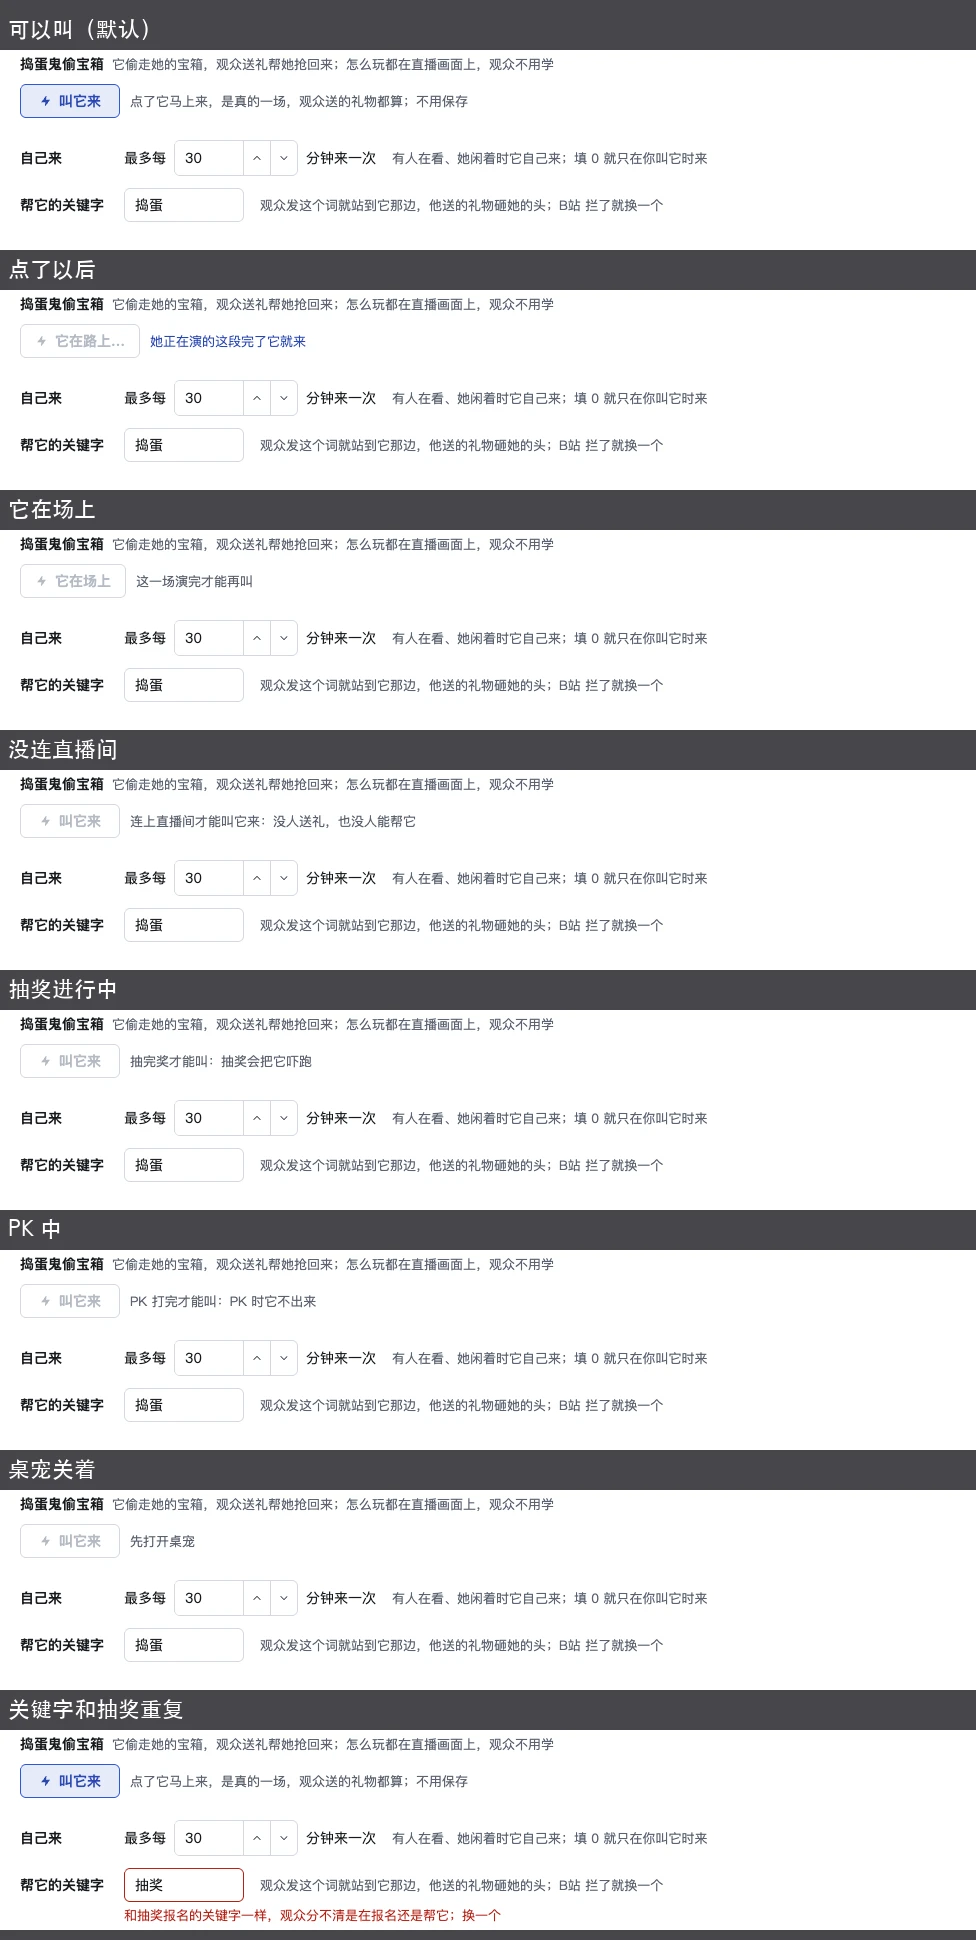
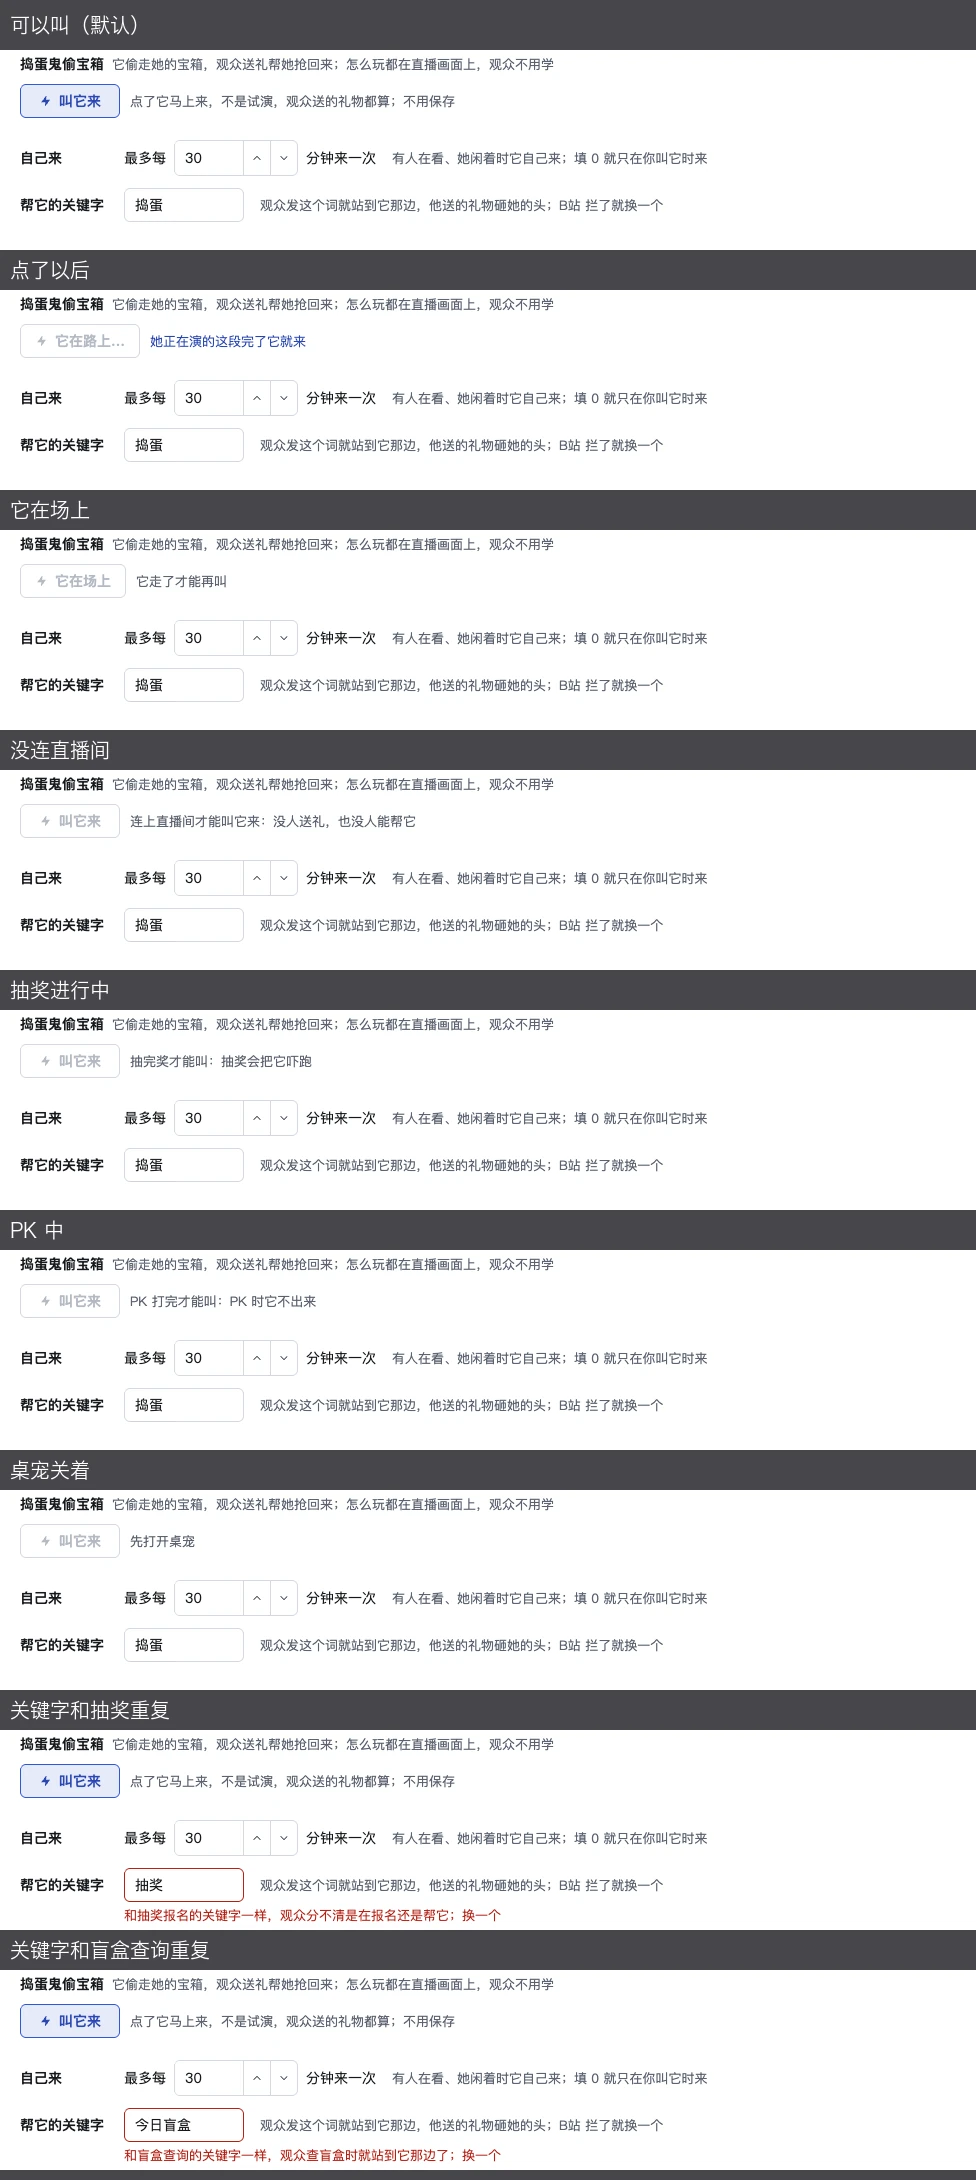
docs: the chest game's terms in the glossary, and what was settled before building it: the keyword clashes with the blind box queries too, a visit is no "一场", the two undrawn poses are dropped (#372)

diff --git a/docs/design/desktop-pet/boards/DP1-DesktopPetSettings.dc.html b/docs/design/desktop-pet/boards/DP1-DesktopPetSettings.dc.html
@@ -336,7 +336,7 @@ a{color:#3358D4}a:hover{color:#2A47B0}
   </div>
 </div>
 </x-dc>
-<script type="text/x-dc" data-dc-script data-props='{"tab":{"editor":"enum","options":["演出","心情和日常","小游戏","台词"],"default":"演出"},"game":{"editor":"enum","options":["可以叫","它在路上","它在场上","没连直播间","抽奖进行中","PK 中","关键字和抽奖重复"],"default":"可以叫"},"gameLines":{"editor":"boolean","default":false},"scene":{"editor":"enum","options":["默认","有未保存的修改","试演中","桌宠页没连上","桌宠关着"],"default":"默认"},"size":{"editor":"enum","options":["1200 × 720","1040 × 600"],"default":"1200 × 720"},"showsLayout":{"editor":"enum","options":["分组","三列"],"default":"分组"},"pk":{"editor":"boolean","default":false},"dark":{"editor":"boolean","default":false},"$preview":{"width":1200,"height":720}}'>
+<script type="text/x-dc" data-dc-script data-props='{"tab":{"editor":"enum","options":["演出","心情和日常","小游戏","台词"],"default":"演出"},"game":{"editor":"enum","options":["可以叫","它在路上","它在场上","没连直播间","抽奖进行中","PK 中","关键字和抽奖重复","关键字和盲盒查询重复"],"default":"可以叫"},"gameLines":{"editor":"boolean","default":false},"scene":{"editor":"enum","options":["默认","有未保存的修改","试演中","桌宠页没连上","桌宠关着"],"default":"默认"},"size":{"editor":"enum","options":["1200 × 720","1040 × 600"],"default":"1200 × 720"},"showsLayout":{"editor":"enum","options":["分组","三列"],"default":"分组"},"pk":{"editor":"boolean","default":false},"dark":{"editor":"boolean","default":false},"$preview":{"width":1200,"height":720}}'>
 class Component extends DCLogic {
   // The app's theme tokens, as on the other GUI boards (GS1).
   tokens(dark) {
@@ -549,8 +549,9 @@ class Component extends DCLogic {
     const callBlocked = !masterOn ? '先打开桌宠' : !pageOk ? '先在直播姬里加好桌宠页' : offline ? '连上直播间才能叫它来：没人送礼，也没人能帮它' : gameScene === '抽奖进行中' ? '抽完奖才能叫：抽奖会把它吓跑' : gameScene === 'PK 中' ? 'PK 打完才能叫：PK 时它不出来' : null;
     const canCall = !callBlocked && !called && !onStage;
     const every = s.every ?? '30', everyOff = Number(every) === 0;
-    const kw = s.kw ?? (gameScene === '关键字和抽奖重复' ? '抽奖' : '捣蛋');
-    const kwErrorText = kw.trim() === '' ? '关键字不能空着' : kw.trim() === '抽奖' ? '和抽奖报名的关键字一样，观众分不清是在报名还是帮它；换一个' : '';
+    const kw = s.kw ?? (gameScene === '关键字和抽奖重复' ? '抽奖' : gameScene === '关键字和盲盒查询重复' ? '今日盲盒' : '捣蛋');
+    const kwErrorText = kw.trim() === '' ? '关键字不能空着' : kw.trim() === '抽奖' ? '和抽奖报名的关键字一样，观众分不清是在报名还是帮它；换一个'
+      : ['今日盲盒', '本月盲盒', '今年盲盒'].includes(kw.trim()) ? '和盲盒查询的关键字一样，观众查盲盒时就站到它那边了；换一个' : '';
     const playing = s.playing ?? scene === '试演中';
     const testDisabled = !masterOn || !pageOk;
     return {
@@ -559,7 +560,7 @@ class Component extends DCLogic {
       call: () => { if (canCall) this.setState({ called: true }); }, callDisabled: canCall ? null : 'true', callCursor: canCall ? 'pointer' : 'default',
       callText: onStage ? '它在场上' : called ? '它在路上…' : '叫它来',
       callBorder: canCall ? t.accent : t.control, callBg: canCall ? t.accentTint : 'transparent', callColor: canCall ? t.accentText : t.disabled,
-      callNote: callBlocked ?? (onStage ? '这一场演完才能再叫' : called ? '她正在演的这段完了它就来' : '点了它马上来，是真的一场，观众送的礼物都算；不用保存'),
+      callNote: callBlocked ?? (onStage ? '它走了才能再叫' : called ? '她正在演的这段完了它就来' : '点了它马上来，不是试演，观众送的礼物都算；不用保存'),
       callNoteColor: called && !callBlocked && !onStage ? t.accentText : t.muted,
       every, setEvery: e => edited({ every: e.target.value }),
       everyNote: everyOff ? '填了 0：它只在你叫它时来' : '有人在看、她闲着时它自己来；填 0 就只在你叫它时来', everyNoteColor: everyOff ? t.accentText : t.muted,

diff --git a/docs/design/desktop-pet/README.md b/docs/design/desktop-pet/README.md
@@ -455,7 +455,7 @@ open "http://localhost:8820/render.html?board=DP-DesktopPet.dc.html"
 - **不出声**：她一直在动，进场挥手、日常每 20–40 秒一次，配声音太吵，送礼动画在视频页也有声音；以后要加再开票，音量照用拉杆。
 - **页面和设置**：地址 `/desktop-pet`，总开关关着时全透明。设置放设置文件的 `desktop_pet` 分组，带升级步骤和测试；台词只存改过的类，按角色和演出的英文 id 记。
 
-## 12. 宝箱小游戏（#372，第一版，还没定稿）
+## 12. 宝箱小游戏（#372）
 
 规则见 [#372](https://github.com/cyaoc/aether/issues/372)。画板里默认关着，加参数 `game` 为 `开` 才有：
 
@@ -508,11 +508,11 @@ open 'http://localhost:8820/render.html?board=DP-DesktopPet.dc.html&props={"game
 
 站位：宝箱落在 x 372。空箱时它坐上去，她往左蹦一步（x 180）；有货时她把箱子拽到 x 292，她站在拳头攥住金环的地方（约 x 106），它浮在绳子从金环一条直线进它手里的地方（约 x 413，身子后仰），三个随它的血量一起左右漂 5 px（原来 16 px，页面放不下），倒计时、“还差多少电池”、血条、“发「捣蛋」帮它”排在页面顶上一条。它的气泡比她的窄，一行 6 个字、最多两行，按台词里写的位置换行；她抓住箱子时先说，它等她的气泡消了再回嘴。
 
-设置页（用户 2026-11-14 定）：桌宠页多一个「小游戏」标签，排在“心情和日常”和“台词”之间，画板 `boards/DP1-DesktopPetSettings.dc.html`，props `tab` 为 `小游戏`，`game` 切可以叫、它在路上、它在场上、没连直播间、抽奖进行中、PK 中、关键字和抽奖重复；`tab` 为 `台词`、`gameLines` 开着看小游戏那两组台词。截图 `preview/gui-game.webp`（默认）、`gui-game-states.webp`（叫它来的各种状态和关键字报错）、`gui-game-lines.webp`。排法参考了 ui-ux-pro-max 的表单和按钮规则：按不了的按钮把原因写在旁边，点了马上有反馈，错误写在输入框下面，每个控件都有看得见的名字。
+设置页（用户 2026-11-14 定）：桌宠页多一个「小游戏」标签，排在“心情和日常”和“台词”之间，画板 `boards/DP1-DesktopPetSettings.dc.html`，props `tab` 为 `小游戏`，`game` 切可以叫、它在路上、它在场上、没连直播间、抽奖进行中、PK 中、关键字和抽奖重复、关键字和盲盒查询重复；`tab` 为 `台词`、`gameLines` 开着看小游戏那两组台词。截图 `preview/gui-game.webp`（默认）、`gui-game-states.webp`（叫它来的各种状态和关键字报错）、`gui-game-lines.webp`。排法参考了 ui-ux-pro-max 的表单和按钮规则：按不了的按钮把原因写在旁边，点了马上有反馈，错误写在输入框下面，每个控件都有看得见的名字。
 
-- **叫它来**：描边按钮，和实心的“保存”分开，点了马上叫、不走保存（和试演一样）；是真的一场，观众送的礼物都算。不管间隔和有没有人，只等她手上这段演完。点了变成“它在路上…”，在场时是“它在场上”；没连直播间、抽奖进行中、PK 中、桌宠关着、桌宠页没加好时按不了，原因写在按钮右边。
+- **叫它来**：描边按钮，和实心的“保存”分开，点了马上叫、不走保存（和试演一样）；不是试演，观众送的礼物都算。不管间隔和有没有人，只等她手上这段演完。点了变成“它在路上…”，在场时是“它在场上”、旁边写“它走了才能再叫”（原来写“这一场演完才能再叫”，“一场”是一场直播、一场抽奖的叫法，2026-11-14 改）；没连直播间、抽奖进行中、PK 中、桌宠关着、桌宠页没加好时按不了，原因写在按钮右边。
 - **自己来**：最多每 [30] 分钟来一次，填 0 就只在主播叫时来，不另设开关；旁边写“有人在看、她闲着时它自己来”。它只看间隔、有没有人、她闲不闲、有没有抽奖和 PK，**不看礼物停没停**：原来要礼物停了 3 分钟才来，用户：“不是礼物停了3分钟不给主播设置、而是这部分直接不要、不然就成催票了”。PK 时它不出来（用户：“在主播开pk的时候、它也不适合出来”），PK 开始时在场的它照被吓跑那样走（见上面按钮表）。
-- **帮它的关键字**：默认“捣蛋”。空着或和抽奖报名的关键字一样时，输入框标红、下面一行红字说原因，保存栏写“小游戏里帮它的关键字要先改好，才能保存”，保存按不了。错误单独占一行，右边的说明不挪位置。
+- **帮它的关键字**：默认“捣蛋”。空着、和抽奖报名的关键字一样、或和盲盒查询的三个关键字（今日、本月、今年）之一一样时（盲盒查询和它同时在用，观众查盲盒就站到它那边了；2026-11-14 定），输入框标红、下面一行红字说原因，保存栏写“小游戏里帮它的关键字要先改好，才能保存”，保存按不了。错误单独占一行，右边的说明不挪位置。
 - **台词**：台词标签多「小游戏·她」「小游戏·它」两组，和别的台词一样能改、加、删、恢复默认；它那组的说明多一句“它的气泡窄，一行最多 6 个字，空一格换行”。台词列表在框里滚动。
 - 不放：试演小游戏、“多久没礼物才来”、守住了几次，它的各段也不进演出表、不单独开关。用户：“主播可以自己叫他出来、所以不需要试演和规定多久没礼物出来、其次这是小游戏、主播也不需要关心守了几次”。
 
@@ -528,6 +528,15 @@ open 'http://localhost:8820/render.html?board=DP-DesktopPet.dc.html&props={"game
 - 捣蛋鬼在一个地方换姿势的 15 处有中间帧了（看板 `PKTRANS`，`tools/pk-inbetween.py` 画）：空箱上甩头 → 掀箱看 → 嫌弃 → 坐下 → 指着笑、嫌弃 → 扔箱子 → 笑；拔河里甩头 → 拽绳、拽绳和挨砸、指着她笑、放闪电、扛绳拖走、漏气之间；被吓到时吊箱子 → 受惊松手、拽绳 → 受惊松手、受惊松手 → 逃跑。转身（朝向变了）的那一下直接切，过渡帧都是朝一个方向画的（`drawPk`）。倒过来走就倒着播；前后两个姿势后仰的角度不同（拽绳后仰），过中间帧时一帧转一段。故意不补的：套纸袋、戴纸王冠是一下变出来的；往下掉、翻跟头、被一下打飞本身在动；摔晕时它朝左、爬起来朝右，换的时候直接切。
 - 没有顶替着用的图了：每个动作用的都是为它画的那一格（用户 2026-11-13：“不应该用别的图顶替、而是生成”）。换下来没再用的格子：捣蛋鬼表 1 的“摸过去”“纸袋”“纸王冠”“被发现”，表 3 的“吞礼物”；她表 13 的“拽把手”“爆炸头拽”，表 15 的“扑过去”。
 - 她攥着的金环是 codex 画在她图里的，比画板画的环多一小截连杆；她松手、抓住时环会换一下样子。
-- 没画的：它招人和吐舌头退场的姿势。
-- 礼物现在统一画成小礼盒，实现时换成 B站 的礼物图标。
+- 它招人和吐舌头退场的姿势不画了（2026-11-14 定）：招人时它拽着绳子喊，没守住时它扛着绳子拖走，画板上就是这样。
+- 画板上礼物统一画成小礼盒；桌宠页画这条礼物消息自己的图标（盲盒是开出来的那个礼物的），没有图标或还没加载好时画小礼盒。
 - 没有声音。
+
+实现要点（2026-11-14 追问后用户定，细节在 #372）：
+
+- **抽奖进行中**：和她等抽奖的时候是同一条规则（桌宠页 `engine.mjs` 的 `lotOf`）：报名中，截止后有人报名、到主播结束，奖池在转或在揭晓。奖池两次开奖之间不算，它可以来，转盘一转就把它吓跑。自己来、「叫它来」和 GUI 的原因都按这一条。
+- **演出开关不影响小游戏**：主播关掉的大航海、城堡、抽奖照样吓跑它、照样拦着它不来，只是之后不演那段。
+- **试演**：它在场时试演和真事件一样把它吓跑（拔河中算守住），再演；试演中点「叫它来」，它等这段试演完。
+- **账号自己发的弹幕不算**：bot 的感谢、欢迎、盲盒播报不让她回头、不算小石子、不能入伙，也不算“有人在”。
+- **关键字在 Core 比**：弹幕内容不进桌宠页，页面只知道谁发了帮它的关键字。
+- **宝箱、连守、记仇只在桌宠页内存里**：连上直播间从 0 起，页面刷新或断开直播间就清空。

diff --git a/GLOSSARY.md b/GLOSSARY.md
@@ -280,6 +280,44 @@ _Avoid_: 情绪、表情
 心情平静时隔一阵做的一段小演出：哼歌、举哑铃、爬山、骑车、滑雪，偶尔出点小事。
 _Avoid_: 待机动作、闲置动画
 
+## 宝箱小游戏
+
+**宝箱小游戏 (Chest Game)**:
+桌宠的小游戏：捣蛋鬼偷走她的宝箱，观众送礼帮她抢回来。平时画面上什么都没有，只在来访时出现。设置页上它在「小游戏」标签里。
+_Avoid_: 单说"小游戏"（以后可能不止一个）、PK（PK 是主播之间的连麦 PK）
+
+**捣蛋鬼 (Prankster)**:
+宝箱小游戏里偷宝箱的那个，淡紫色的小乌云，和精灵是同一种生物。它的图不分角色。
+_Avoid_: 小偷、贼（画面上不出现"贼"字）、怪、反派
+
+**来访 (Visit)**:
+捣蛋鬼从页面左边探头起，到它离开画面为止。它自己来，或者主播叫它来。来访期间观众送的礼物砸出去，不演她的礼物演出。
+_Avoid_: 一场、一局（"一场"指一场直播、一场抽奖）
+
+**宝箱 (Chest)**:
+她放在家里（画面左边外面）的宝箱：bot 连着直播间时，观众送的付费礼物和大航海按投入记进去。只记在桌宠页里，页面刷新或断开直播间就清空，被偷走也清零。来访时画面上的箱子是它的样子。
+_Avoid_: 奖池（奖池是奖池抽奖的）、存钱罐
+
+**拔河 (Tug)**:
+宝箱里有东西时，来访中的那一分钟：她攥着宝箱这头的金环往家拽，捣蛋鬼拽着钩在另一头的绳子往外拉。观众送礼扣它的血，扣完就守住了；到时间还没扣完，宝箱就被偷走。
+_Avoid_: 战斗、PK
+
+**帮它的人 (Helper)**:
+拔河时发了帮它的关键字的观众，只算这一次来访。他送的礼物砸她的头、给捣蛋鬼回血；其他观众送的礼物砸捣蛋鬼。
+_Avoid_: 捣蛋的人、反方
+
+**帮它的关键字 (Helper Keyword)**:
+观众发了就成为帮它的人的弹幕内容，要和它完全一样。主播在设置里改，默认"捣蛋"；不能和报名关键字、盲盒查询的关键字一样。
+_Avoid_: 口令（口令是奖池抽奖的）、报名关键字
+
+**叫它来 (Summon)**:
+主播在设置页上让捣蛋鬼马上来一次：不管自己来的间隔，也不管有没有人在，她手上这段演完它就来。这是真的来访，不是试演，观众送的礼物都算。
+_Avoid_: 试演、召唤
+
+**连守 (Streak)**:
+她连着守住宝箱的次数：拔河里打跑它、或者拔河时它被吓跑，都加一；宝箱被偷走就清零。
+_Avoid_: 连胜
+
 ## 抽奖
 
 **报名抽奖 (Entry Lottery)**:
